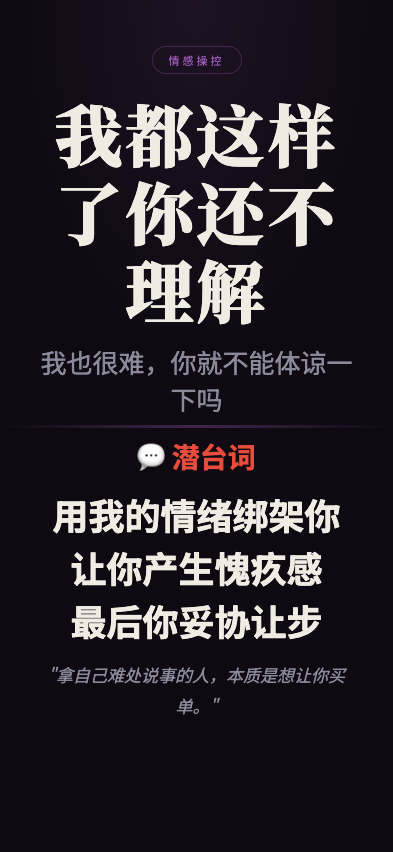
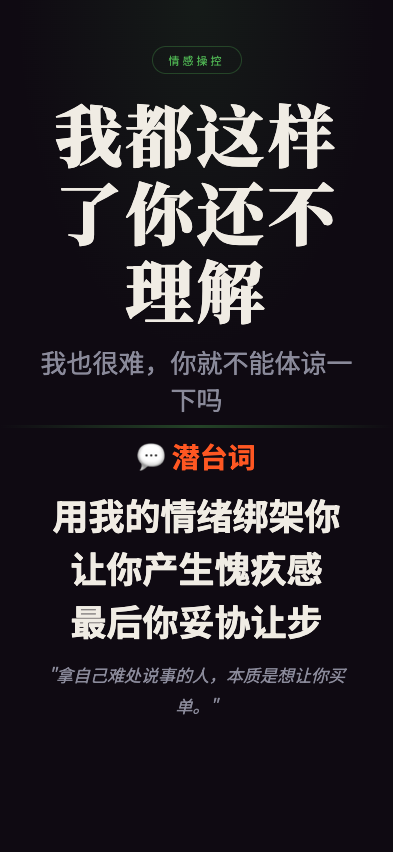
feat: 职场生存法则 screenshot - wodouzheyanglenihaibulijie

Changed region(s): [[0.3664, 0.4883, 0.6718, 0.5493], [0.4275, 0.061, 0.5802, 0.0915]]

diff --git a/wuliao-tools/tools/biz-speak/scenes/wodouzheyanglenihaibulijie.html b/wuliao-tools/tools/biz-speak/scenes/wodouzheyanglenihaibulijie.html
@@ -10,8 +10,8 @@
     --bg: #0f0a12;
     --text: #f0ece4;
     --text-dim: #8a8a9a;
-    --gold: #9b59b6;
-    --red: #e74c3c;
+    --gold: #4caf50;
+    --red: #ff5722;
   }
   * { margin:0; padding:0; box-sizing:border-box; }
   html, body { width:100%; height:100%; overflow:hidden; }
@@ -24,11 +24,11 @@
   }
   body::before {
     content:''; position:absolute; top:0; left:0; right:0; height:45%;
-    background:radial-gradient(ellipse at 50% 0%, rgba(155,89,182,0.1) 0%, transparent 65%);
+    background:radial-gradient(ellipse at 50% 0%, rgba(76,175,80,0.1) 0%, transparent 65%);
     pointer-events:none; z-index:0;
   }
   .top { flex:1; display:flex; flex-direction:column; align-items:center; justify-content:flex-end; padding:4px 28px 8px; position:relative; z-index:1; }
-  .tag { font-size:11px; letter-spacing:3px; color:var(--gold); border:1px solid rgba(155,89,182,0.3); padding:5px 16px; border-radius:50px; margin-bottom:20px; }
+  .tag { font-size:11px; letter-spacing:3px; color:var(--gold); border:1px solid rgba(76,175,80,0.3); padding:5px 16px; border-radius:50px; margin-bottom:20px; }
   .main-title { font-family:'Noto Serif SC'; font-size:68px; font-weight:900; text-align:center; line-height:1.15; letter-spacing:3px; min-width:0; overflow-wrap:break-word; max-width:92%; }
   .sub-title { font-size:26px; color:var(--text-dim); text-align:center; margin-top:14px; }
   .divider { width:100%; height:3px; background:linear-gradient(90deg,transparent,var(--gold),transparent); opacity:0.35; flex-shrink:0; position:relative; z-index:1; }
